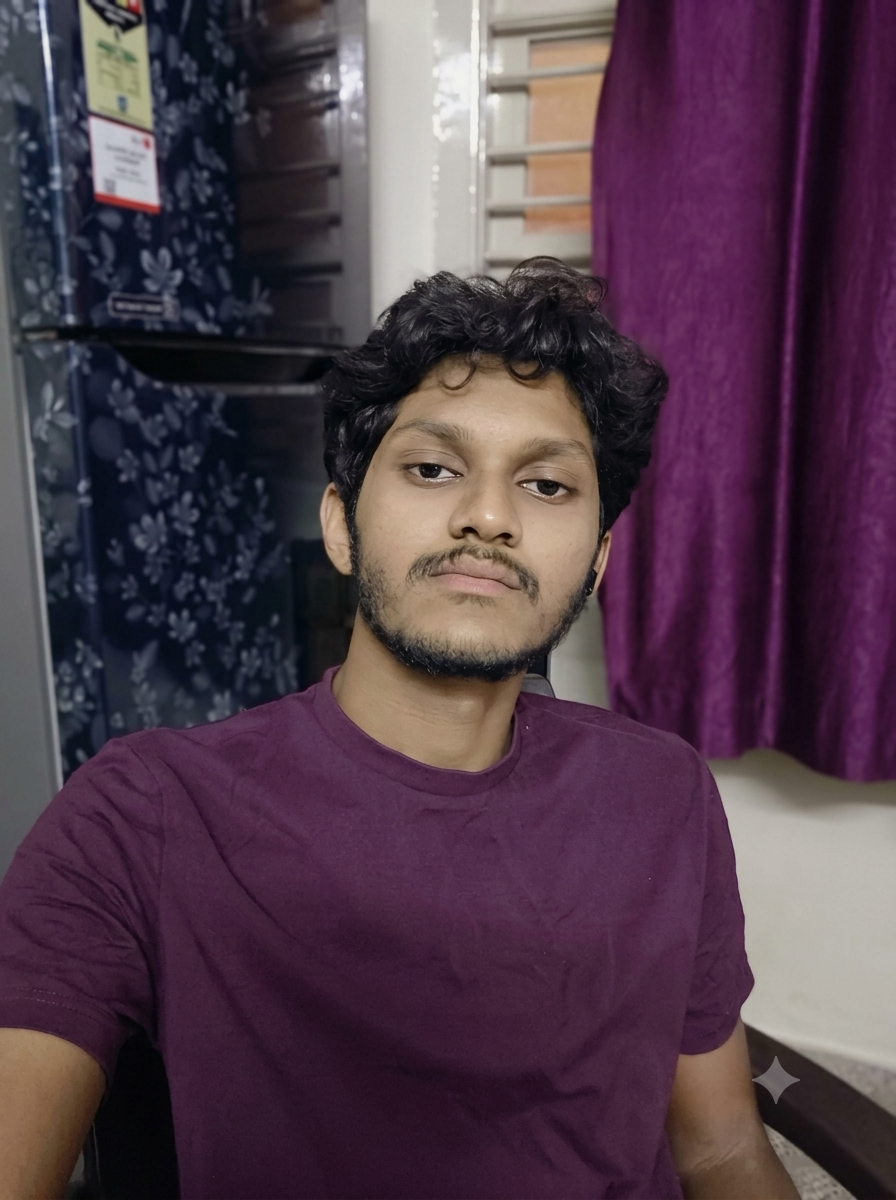
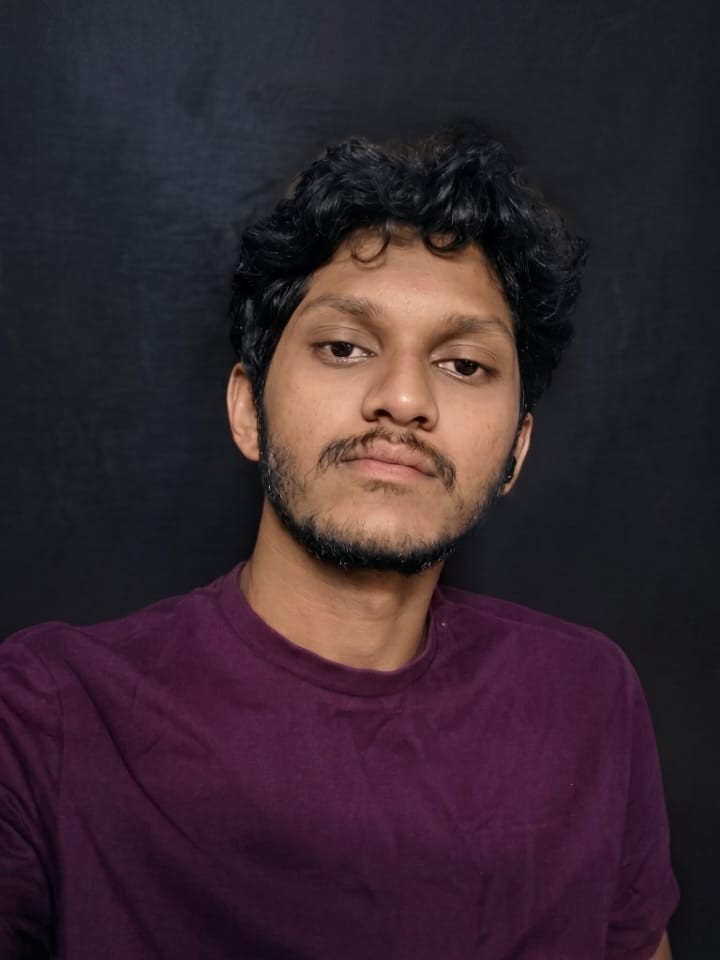
feat: update speaker details and mobile toast styling

diff --git a/css/builder.css b/css/builder.css
@@ -1346,25 +1346,6 @@ body {
    4. TOAST NOTIFICATION & CODE DRAWER
    ======================================================== */
 
-.preview-toast {
-    position: absolute;
-    top: 14px;
-    left: 50%;
-    transform: translateX(-50%) translateY(-20px);
-    background: #1E1E1E;
-    color: #FFFFFF;
-    font-size: 11px;
-    font-weight: 700;
-    padding: 7px 14px;
-    border-radius: 999px;
-    box-shadow: 0 4px 12px rgba(0, 0, 0, 0.25);
-    pointer-events: none;
-    opacity: 0;
-    transition: all 0.25s cubic-bezier(0.16, 1, 0.3, 1);
-    z-index: 50;
-    white-space: nowrap;
-}
-
 .preview-toast.show {
     opacity: 1;
     transform: translateX(-50%) translateY(0);
@@ -1692,6 +1673,7 @@ body {
 }
 
 /* 3. Interactive Toast Notification */
+/* Interactive Toast Notification (Fluid & Mobile-Safe) */
 .preview-toast {
     position: absolute;
     top: 12px;
@@ -1701,14 +1683,21 @@ body {
     color: #FFFFFF;
     font-size: 11px;
     font-weight: 700;
-    padding: 8px 16px;
-    border-radius: 999px;
+    line-height: 1.4;
+    padding: 8px 14px;
+    border-radius: 12px;
     box-shadow: 0 6px 16px rgba(0, 0, 0, 0.35);
     pointer-events: none;
     opacity: 0;
     transition: all 0.25s cubic-bezier(0.16, 1, 0.3, 1);
     z-index: 9999;
-    white-space: nowrap;
+    white-space: normal;
+    /* Allows text to wrap into 2 lines on small screens */
+    width: max-content;
+    max-width: calc(100% - 28px);
+    /* Keeps the pill securely inside card borders */
+    box-sizing: border-box;
+    text-align: center;
 }
 
 .preview-toast.show {

diff --git a/js/data.js b/js/data.js
@@ -48,7 +48,7 @@ const SPEAKERS = [
   },
   {
     id: "nandhini-deployment",
-    name: "Nandhini",
+    name: "Nandini",
     topic: "Deployment",
     color: "green",
     branch: "CSE",
